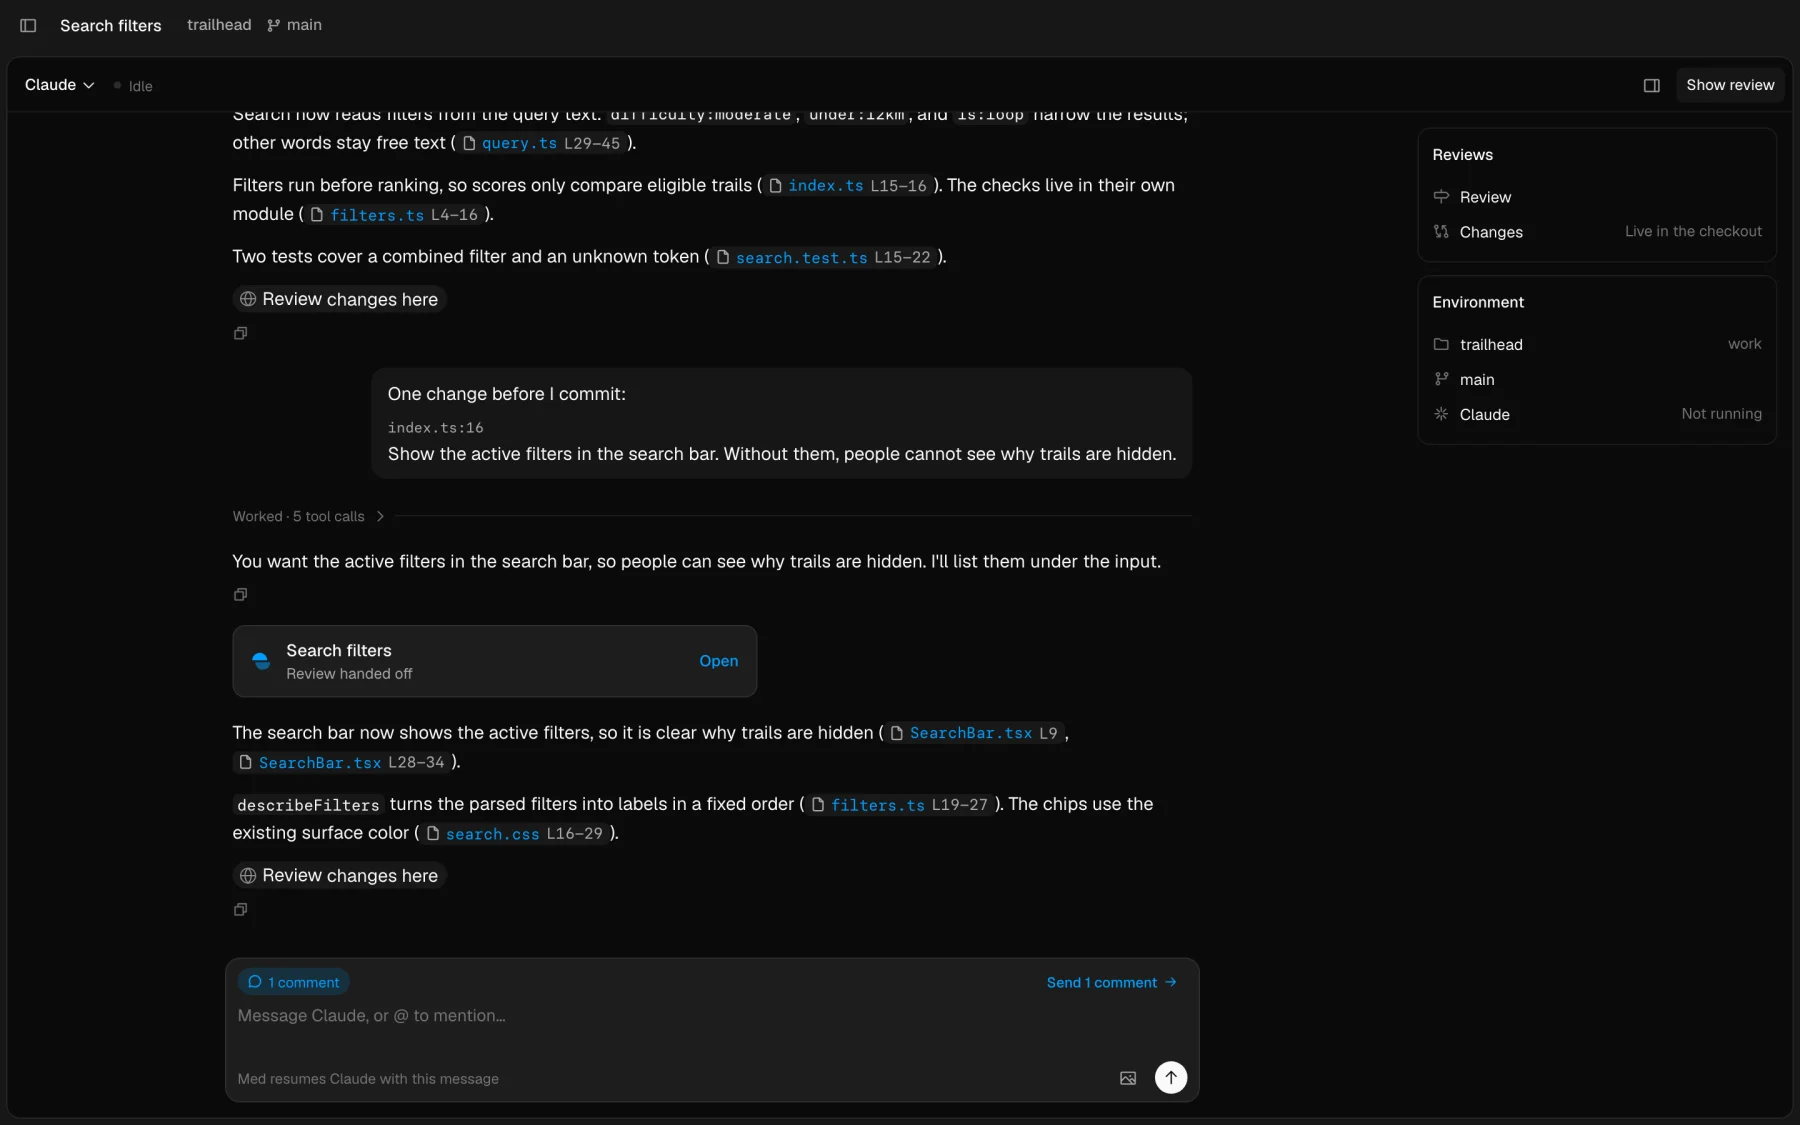
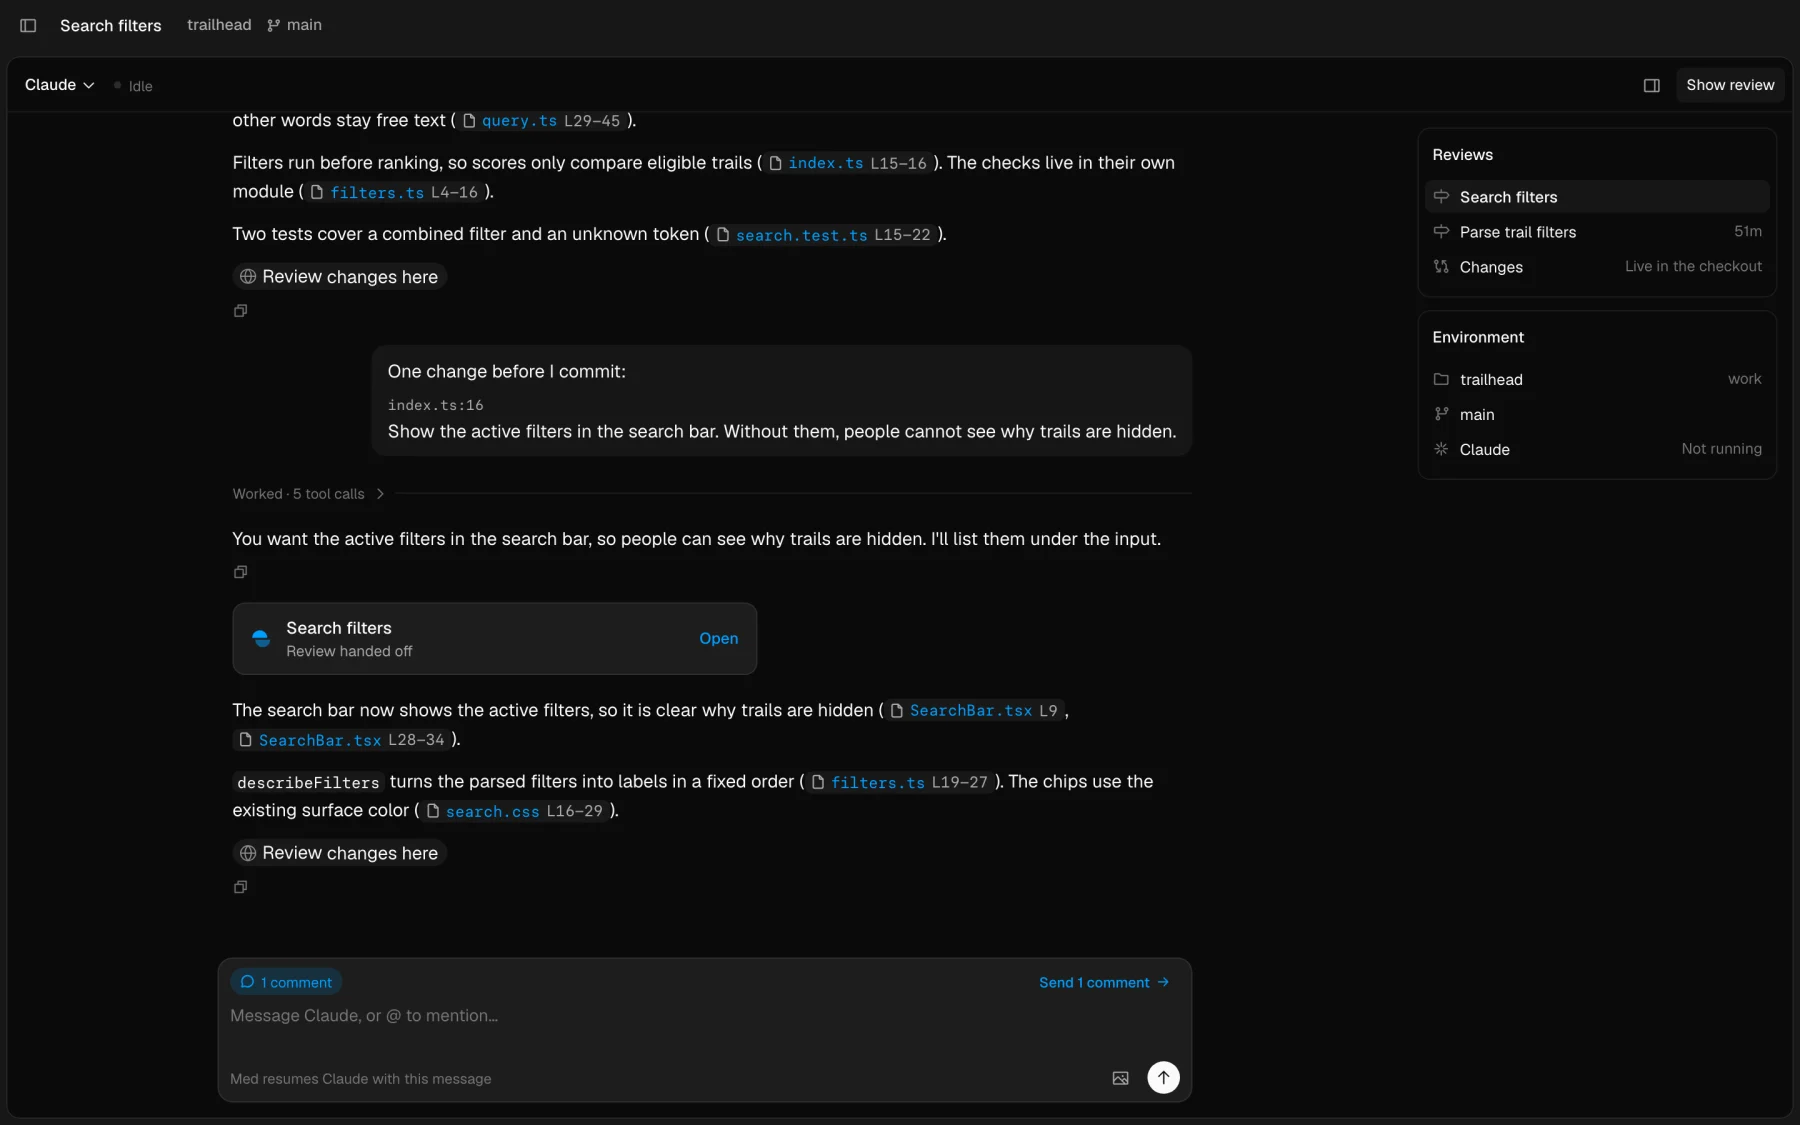
Med docs: round 5 screenshots and the find bar in files and Vim

diff --git a/apps/med/docs/usage/layout.md b/apps/med/docs/usage/layout.md
@@ -24,6 +24,11 @@ shaded on the side where the panel is, is only for sidebars: the page's
 sidebar, the threads, and the session's side panel. Med keeps each choice: a
 pane's in the thread's layout, the others in the view settings.
 
+A page that covers the workspace, such as Settings or Sources, names itself,
+so in a browser tab it reaches the window's top, and **Show sidebar** sits in
+its corner while the sidebar hides. The installed app keeps the title band
+there for its window controls.
+
 | Pane or panel                           | Hide                                                                              | Show again                                                                 |
 | --------------------------------------- | --------------------------------------------------------------------------------- | -------------------------------------------------------------------------- |
 | Sidebar (the threads)                   | **Hide sidebar** in it, `⌘B`                                                      | **Show sidebar** at the top left, `⌘B`, or **Show threads** in `⌘K`        |
@@ -65,11 +70,11 @@ row names the agent and its state.
   agent's mark), the review's title after Med's mark, and its branch, which
   copies its name. Then what the diff compares, **Copy comments** with their
   number while the review has comments, **⋯** while a narrow header folds
-  something into it, **Display**, and the pages.
+  something into it, **Display** (an icon), and the pages.
 - The pages are **Review**, **Changes**, and **Commit**, or **Pull request**
   for a thread with one. The number keys `1` to `3` switch between them while
   the focus is not in a text field, the diff, or the session.
-- **Display** has a row for each choice, as Pierre lays its own out: the
+- **Display**, the sliders icon, has a row for each choice, as Pierre lays its own out: the
   diff's **Layout** (**Split** or **Unified**, two icons, `S`), **Wrap long
   lines** (`W`), **Comments in the diff** (`C`), the code's text size, and
   the **Theme**: Auto, which follows the system, Light, or Dark. The keys
@@ -82,14 +87,20 @@ row names the agent and its state.
   **Only this session's files**.
 - **⋯** holds only what a narrow header folds away: what the diff compares,
   and the pane's **Expand** and **Hide**. The rest is in `⌘K` and on its keys:
-  **Find in diffs** (`⌘F`), **Collapse all files**, **Push…**, **Refresh
+  **Find in diffs** (`⌘F`, the find bar below), **Collapse all files**, **Push…**, **Refresh
   review** (`R`), **Open working file** (`O`), the panes, and **Clear all
   comments**. Comments go to an agent from its session's message box.
 - At its end, the pane's **Expand** and **Hide the review**, while the session
   shows beside it. A header narrower than 520 pixels puts them in **⋯**.
 - A narrow header gives way in this order: what the diff compares (in
-  Review, or while Changes' sidebar hides) moves into **⋯**, **Display** keeps its icon, the title shortens to Med's mark, the
+  Review, or while Changes' sidebar hides) moves into **⋯**, the title shortens to Med's mark, the
   branch hides, and last the pages' names shorten.
+- **Find** (`⌘F`) is one bar at the top right, the same in the diff and in a
+  file: the query, **Match case** (`⌥C`), **Whole word** (`⌥W`), **Regular
+  expression** (`⌥R`), how many lines match and which shows, and Previous and
+  Next. Typing goes to the first match; `↵` and `⇧↵` step, as do `n` and `N`
+  in the diff, and `Esc` closes it. In a file, Vim's `/` and `?` open the same
+  bar ([Vim navigation](find.md#symbols-and-vim-navigation)).
 - There is no toolbar and no status bar. While the page reconnects to the
   server, a notice shows at the lower right of the workspace.
 

diff --git a/apps/med/docs/SESSIONS.md b/apps/med/docs/SESSIONS.md
@@ -368,6 +368,12 @@ those messages as another session's, not as the user's.
   step" while the agent works, or "Waiting for Claude to take it".
   When the agent takes the message, it replaces the agent's own copy in the
   transcript, so the turn before keeps its reply and its "Worked for" row.
+- The message box, with the docks above it, floats over the thread's foot on
+  a fade (`SessionThread`'s `footer`). The thread scrolls under it, so its
+  scroll bar runs the pane's height; the box leaves the bar's 12 px column
+  clear, and the thread ends with a spacer as tall as the box, so its last
+  line clears it. The scroll bar is slim: a 4 px thumb on a clear track, 4 px
+  in from the edge (`.med-slim-scroll`).
 - The thread is a virtual list. Only the units within 1,200 px of the view
   render; spacers hold the height of the others. When less than 800 px stays
   rendered past an edge, the range moves in a task after the frame, so the
@@ -527,7 +533,8 @@ from the thread, so a task still scrolls the thread to its call),
 **Subagents** (the tabs over the thread move here the same way, as a list of
 rows with each subagent's state, so they never meet the panel's first card;
 the arrow keys go down and up the list),
-**Reviews** (the thread's Review, its Changes, and its pull request), and
+**Reviews** (each review that the session handed off, newest first, with
+the one on screen marked; then its live Changes and its pull request), and
 **Environment** (the checkout, its branch, and the agent with its model and
 what runs it). The thread's column has Claude Desktop's 768 pixel text
 measure (`session-styles.ts`). 900 pixels is a 540 pixel column, 30 pixels

diff --git a/apps/med/docs/usage/find.md b/apps/med/docs/usage/find.md
@@ -143,9 +143,13 @@ browser address. Files take focus when they open, in Normal mode:
   `a'`, backtick), and brackets (`i(`, `a[`, `i{`, `ib`, `aB`). Counts such as
   `v2i(` and repeated objects expand outward. Brackets are text pairs, not
   syntax.
-- `/` and `?` search live, `n` and `N` step, and `*` and `#` search for the word
-  at the cursor. An uppercase letter makes a search case-sensitive. Enter
-  accepts; Escape cancels or clears highlights.
+- `/` and `?` open the find bar that the diff has, with `/` or `?` in place of
+  its search icon. It searches live from the cursor, with Match case, Whole
+  word, and Regular expression (`⌥C`, `⌥W`, `⌥R`) and a count. `↵` goes to the
+  match and back to the file; `Esc` closes the bar and puts the cursor back.
+  Then `n` and `N` step from the bar's query, and `*` and `#` find the word at
+  the cursor, whole. `⌘F` opens the same bar without Vim's mark; there `↵` and
+  `⇧↵` step.
 - `gd` finds declarations of the word at the cursor, first in the file, then
   in the project index. Several candidates open a picker. Ctags does not
   resolve types or imports as a language server does.

diff --git a/apps/med/docs/usage/threads.md b/apps/med/docs/usage/threads.md
@@ -6,7 +6,10 @@ are **tabs**. All other threads are **history**.
 
 The sidebar lists the tabs as sessions, one row each: **Pinned**, in the
 order you pinned them, then **Recent**, newest activity first. There is no
-grouping by repository. `⌘1`–`⌘9` open the session at that place in the list.
+grouping by repository. A session that handed off several reviews, such as
+one for each branch, is one row: the review on screen, else the newest. Its
+side panel's **Reviews** lists them all, newest first, and opens each one;
+**Archive** on the row archives them all. `⌘1`–`⌘9` open the session at that place in the list.
 A row shows the agent's mark and the session's name, and at most one dot: blue
 when something is new since you looked, amber when the work stopped. While the
 agent works, its name dims under a passing light. **New** at the top starts a

diff --git a/apps/med/docs/usage/keyboard.md b/apps/med/docs/usage/keyboard.md
@@ -9,7 +9,9 @@ Enter runs a row that has a command. On Linux, use Ctrl for ⌘, Alt for ⌥, an
 | Command palette                        | `⌘K`            |
 | Find a file                            | `⌘⇧K`           |
 | Search file contents                   | `⌘⇧F`           |
-| Find in the diff                       | `⌘F`            |
+| Find in the diff or a file             | `⌘F`            |
+| Find in a file, in Vim                 | `/` / `?`       |
+| Find's case / whole word / expression  | `⌥C` `⌥W` `⌥R`  |
 | Open a repository                      | `⌘O`            |
 | Symbols in this file                   | `⌘⇧O`           |
 | Open a branch or worktree              | `⌘⇧G`           |

diff --git a/apps/med/docs/USAGE.md b/apps/med/docs/USAGE.md
@@ -177,11 +177,11 @@ flowchart TD
 
 ## Prototypes
 
-The Screens page (`/screens`, in a development build) shows designs that
-aren't in the app yet, on made-up data. One is a single find bar for `⌘F` in
-a diff, `⌘F` in a file, and Vim's `/` and `?`.
+The Screens page (`/screens`, in a development build) shows designs on
+made-up data before they reach the app. The find bar started there: one bar
+for `⌘F` in a diff, `⌘F` in a file, and Vim's `/` and `?`, now in both.
 
-![The find bar prototype](screenshots/app/find-bar.webp)
+![The find bar, in a diff and in a file with Vim's /](screenshots/app/find-bar.webp)
 
 ## Pages
 
